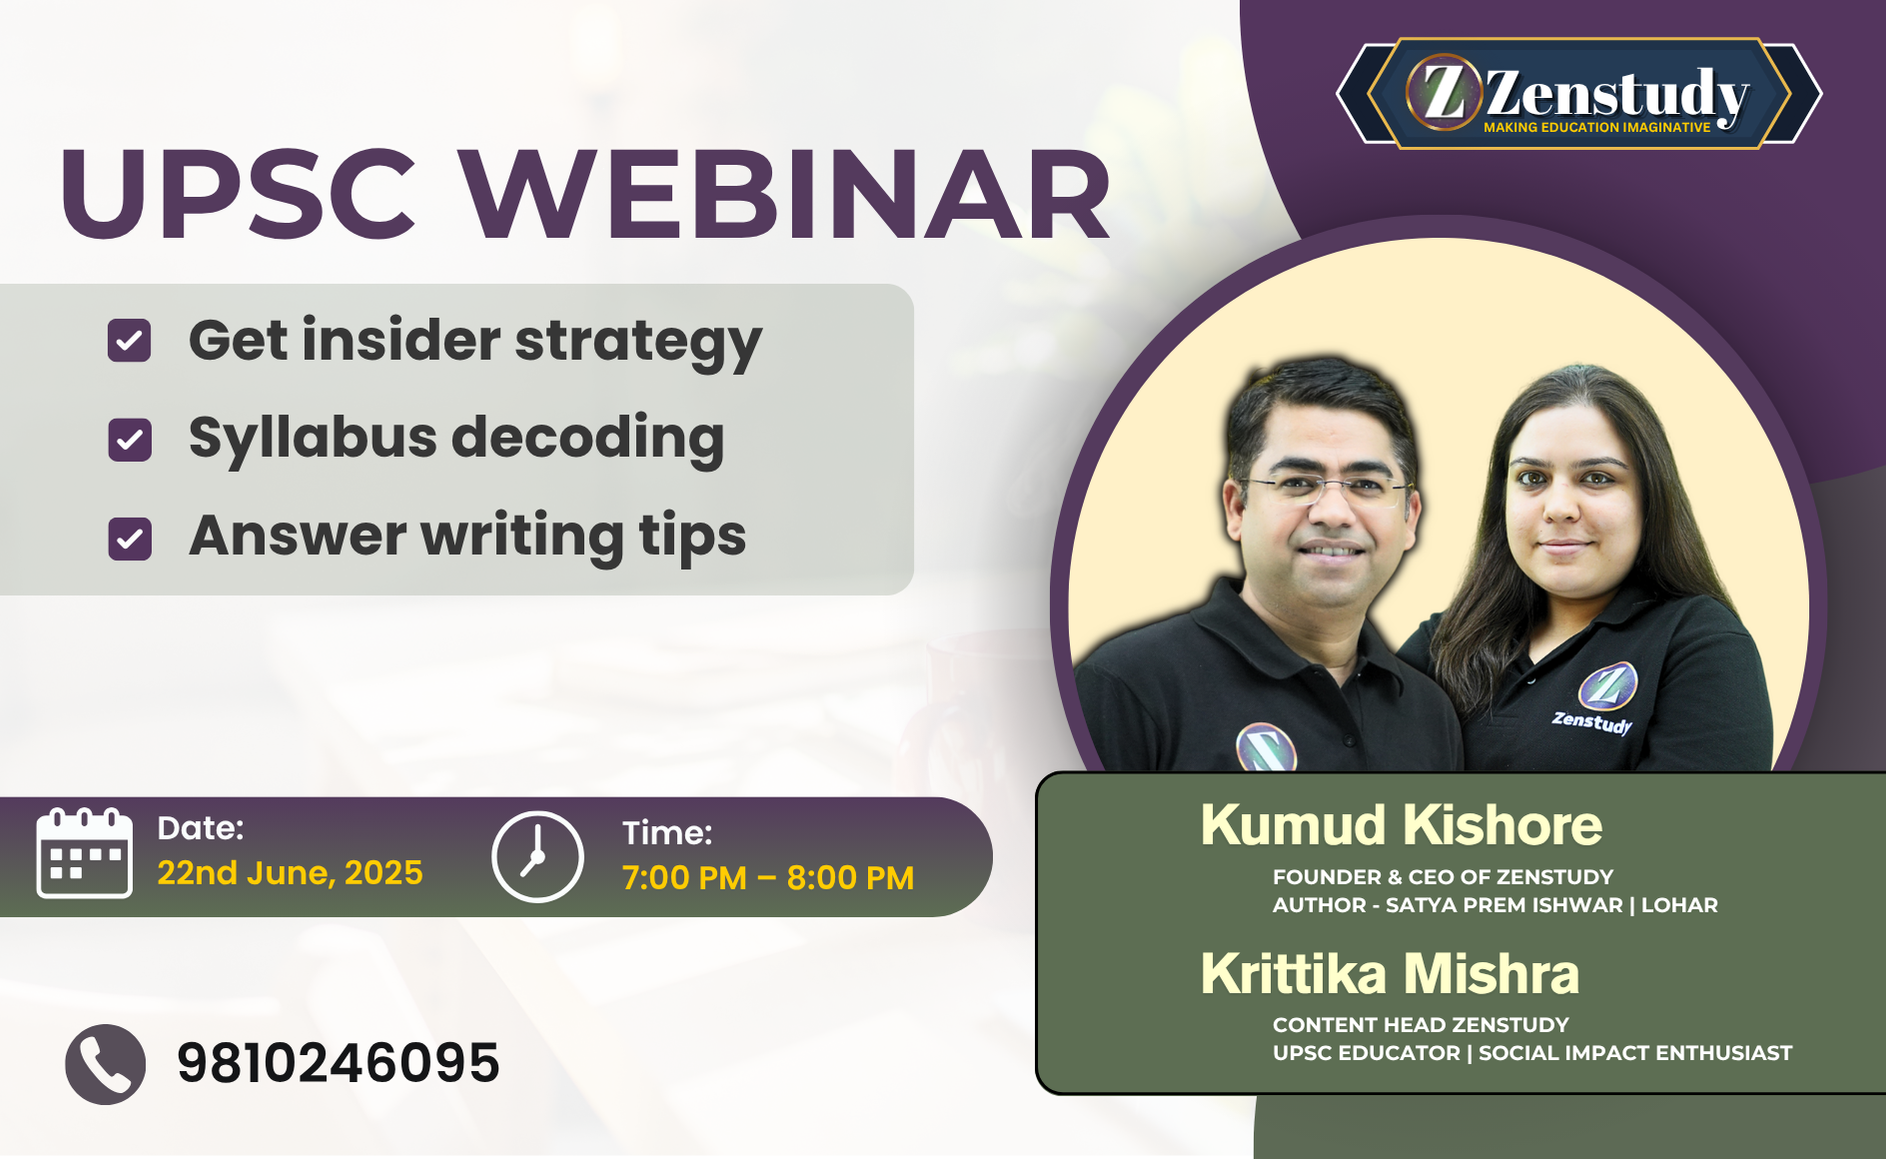
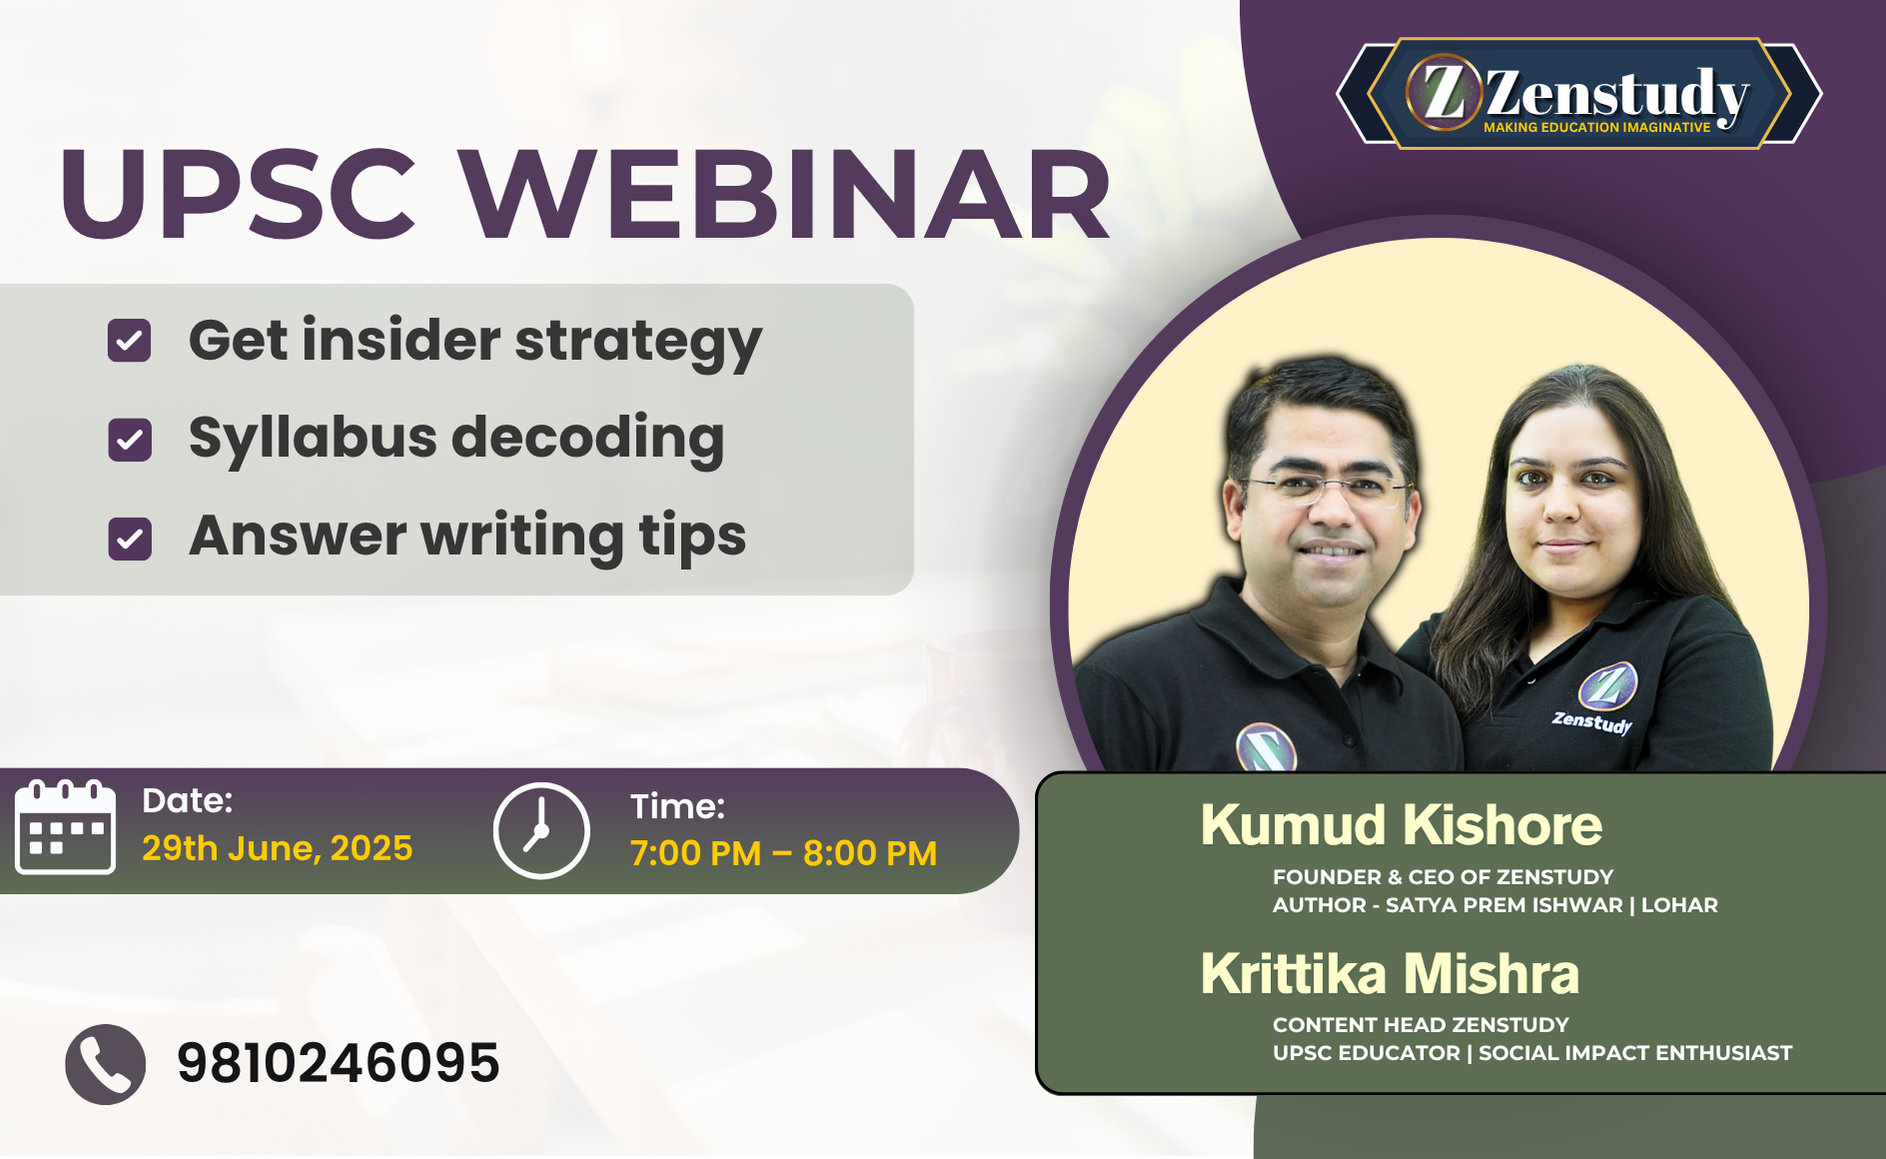
some changes

Changed region(s): [[0.0, 0.6523, 0.5536, 0.8076]]

diff --git a/src/components/course/Courses.jsx b/src/components/course/Courses.jsx
@@ -8,7 +8,6 @@ import axios from "axios";
 import { useAuth } from "../../context/auth-context";
 import CourseCardSkeleton from "./course-card-skeleton";
 import ResourceSkeleton from "../../studentDashboard/components/free-resources/resource-skeleton";
-import { a } from "react-spring";
 
 const Courses = () => {
   const [courses, setCourse] = useState([]);
@@ -44,7 +43,6 @@ const Courses = () => {
     window.scrollTo({ top: 0, behavior: "smooth" });
   };
 
-  console.log("activeTab", activeTab);
   useEffect(() => {
     const fetchData = async () => {
       try {
@@ -53,7 +51,7 @@ const Courses = () => {
         );
         setTabName(response.data.data);
       } catch (error) {
-        console.log(error);
+        // console.log(error);
       }
     };
 
@@ -65,14 +63,12 @@ const Courses = () => {
     if (user) {
       api = `fetchPurchaseCoursesWithFilters/${user?._id}?page=${paginatedData.currentPage}&limit=${paginatedData.itemperpage}&search=${searchText}&catId=${activeTab}`;
     } else {
-      api = `fetchCoursesWithFiltersopt?page=${paginatedData.currentPage}&limit=${
+      api = `fetchCoursesWithFilters?page=${paginatedData.currentPage}&limit=${
         paginatedData.itemperpage
       }&search=${searchText}&catId=${activeTab === "Free Courses" ? null : activeTab}&isFree=${
         activeTab === "Free Courses" && true
       }`;
     }
-
-    console.log("API Endpoint:", api);
 
     const getCourse = async () => {
       setLoading((prev) => ({ ...prev, paginationLoading: true }));
@@ -80,7 +76,7 @@ const Courses = () => {
 
       try {
         const response = await fetch(
-          `${process.env.REACT_APP_API3}zenstudy/api/course/${api}`,
+          `${process.env.REACT_APP_API}zenstudy/api/course/${api}`,
           {
             method: "GET",
             headers: {
@@ -104,8 +100,6 @@ const Courses = () => {
         const data = await response.json();
         const mainData = data.courses;
         const metaData = data.meta;
-
-        console.log("Fetched courses:", mainData);
         setPaginatedData((prev) => ({ ...prev, totalData: metaData.total }));
 
         // Process the course data

diff --git a/src/components/Webinar.jsx b/src/components/Webinar.jsx
@@ -347,7 +347,7 @@ function Webinar() {
         Save the Date!
       </h3>
       <p className="text-lg md:text-3xl font-extrabold text-gray-700 ">
-      1 June, 2025
+      29 June, 2025
       </p>
     </div>
   </div>
@@ -391,14 +391,14 @@ function Webinar() {
               <BiCalendar className="w-8 h-8 text-[#543a5d]" />
               <div>
                 <h3 className="font-semibold">Date</h3>
-                <p>1 June, 2025</p>
+                <p>29 June, 2025</p>
               </div>
             </div>
             <div className="flex items-center space-x-4 p-6 rounded-lg bg-gray-50 shadow-sm hover:shadow-md transition-shadow duration-200">
               <FaClock className="w-8 h-8 text-[#543a5d]" />
               <div>
                 <h3 className="font-semibold">Duration</h3>
-                <p>5pm - 6pm</p>
+                <p>7pm - 8pm</p>
               </div>
             </div>
             <div className="flex items-center space-x-4 p-6 rounded-lg bg-gray-50 shadow-sm hover:shadow-md transition-shadow duration-200">

diff --git a/src/context/auth-context.jsx b/src/context/auth-context.jsx
@@ -43,7 +43,7 @@ export const AuthProvider = ({ children }) => {
                     });
                 }
             } catch (error) {
-                console.error("Auth check failed:", error.message);
+                // console.error("Auth check failed:", error.message);
             } finally {
                 setLoading(false);
             }
